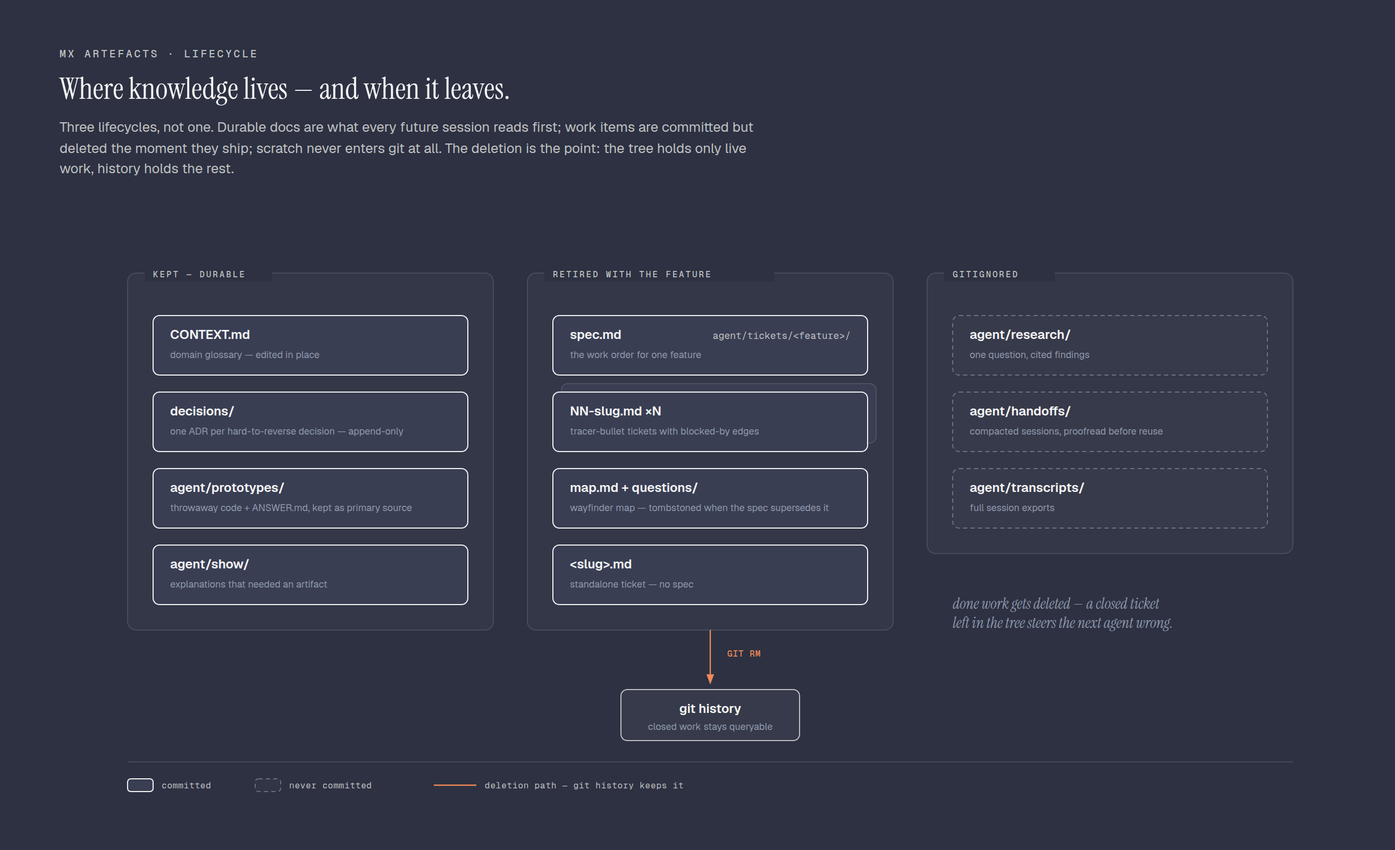
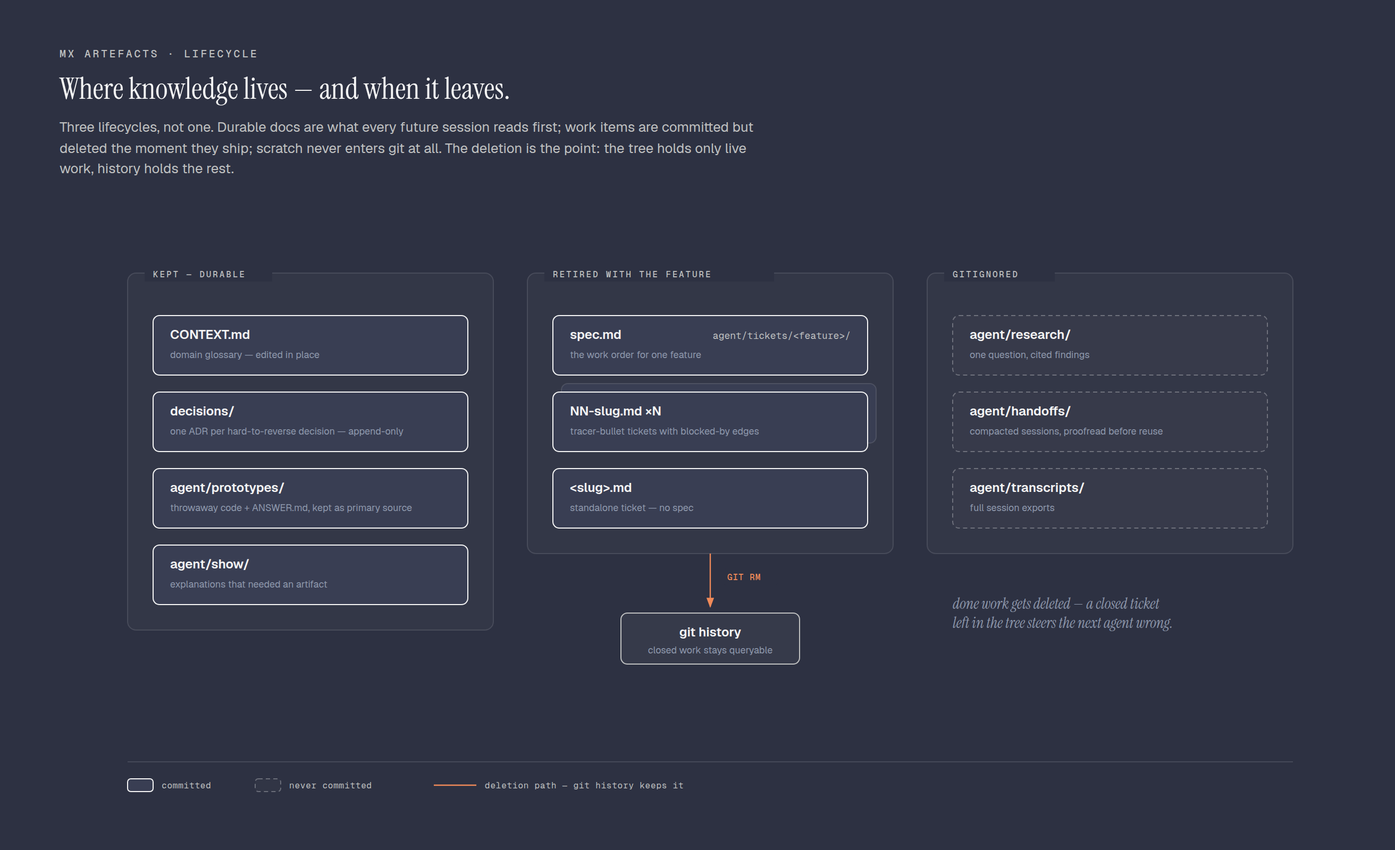
orient, README: one main flow with the session boundary inside it
The Map row leaves both artefact tables; the main flow's step 1 says
planning that outgrows the session continues through decision tickets
instead of forking to a second skill; context hygiene points at
grilling's Across sessions as the way to end a planning session early.

The wayfinder-loop figure is replaced by session-boundary: the same hub
and stations shape, with the spec draft as the hub and the session
boundary as one labelled edge of the loop. full-cycle's grilling card
and the artefacts figure's retired zone drop the map.

Workflow-stage: implement

Claude-Session: https://claude.ai/code/session_01Hc2P6VR8ERZpU6oiHPTKQz

Changed region(s): [[0.4062, 0.6562, 0.5625, 0.875], [0.4062, 0.5625, 0.5938, 0.625]]

diff --git a/agent/show/mx-readme-figures/session-boundary.html b/agent/show/mx-readme-figures/session-boundary.html
@@ -2,7 +2,7 @@
 <html lang="en">
 <head>
 <meta charset="utf-8">
-<title>mx: the wayfinder loop</title>
+<title>mx: grilling across sessions</title>
 <link href="https://fonts.googleapis.com/css2?family=Geist:wght@400;500;600&family=Geist+Mono:wght@400;500;600&display=swap" rel="stylesheet">
 <style>
 :root{
@@ -30,6 +30,7 @@ text{fill:var(--ink);}
 .note{font:400 9px 'Geist',sans-serif; fill:var(--soft);}
 .hubrow{font:500 8px 'Geist Mono',monospace; letter-spacing:.08em; fill:var(--muted);}
 .al{font:400 8px 'Geist Mono',monospace; letter-spacing:.06em; fill:var(--muted);}
+.al-accent{font:500 8px 'Geist Mono',monospace; letter-spacing:.06em; fill:var(--accent);}
 .aside{font:400 11px 'Geist',sans-serif; fill:var(--soft);}
 .rule{stroke:var(--rule); stroke-width:1;}
 .legend-text{font:400 8px 'Geist Mono',monospace; letter-spacing:.05em; fill:var(--muted);}
@@ -40,14 +41,14 @@ text{fill:var(--ink);}
 </head>
 <body>
 <header class="topbar">
-  <p class="eyebrow">mx workflow &middot; wayfinder</p>
+  <p class="eyebrow">mx workflow &middot; grilling across sessions</p>
   <button class="scheme"></button>
 </header>
-<h1>Planning too big for one session: a shared map of decision tickets.</h1>
-<p class="dek">Chart the map once, then loop: each lap is a fresh session that claims one open question, resolves
-it, and records the decision on the map and in the spec draft. Sessions come and go; the map and the draft
-accumulate. When no tickets remain and no fog is specifiable, the way is clear: the last session confirms the
-spec, and only then does building start. A repo can run several maps at once.</p>
+<h1>Planning that spans sessions: the spec carries the design, decision tickets carry the open questions.</h1>
+<p class="dek">Every grilling writes the spec round by round, so a session boundary is not a fork in the flow. A session
+that ends with questions open files them as decision tickets; the next session claims one, grills it, and rewrites
+the spec sections it names. Whether the frontier drains in one session or twelve is discovered, not declared; when
+it is empty, the gate confirms the spec and building starts.</p>
 
 <svg viewBox="0 0 1200 740" xmlns="http://www.w3.org/2000/svg">
   <defs>
@@ -58,91 +59,89 @@ spec, and only then does building start. A repo can run several maps at once.</p
 
   <!-- connectors: the loop -->
   <path class="flow" d="M 736,216 H 948 Q 956,216 956,224 V 324" marker-end="url(#arrow)"/>
-  <path class="flow" d="M 956,424 V 592 Q 956,600 948,600 H 732" marker-end="url(#arrow)"/>
-  <path class="flow" d="M 552,600 H 356 Q 348,600 348,592 V 428" marker-end="url(#arrow)"/>
-  <path class="flow" d="M 348,328 V 224 Q 348,216 356,216 H 540" marker-end="url(#arrow)"/>
+  <path class="flow" d="M 956,424 V 592 Q 956,600 948,600 H 748" marker-end="url(#arrow)"/>
+  <path class="flow" d="M 536,600 H 356 Q 348,600 348,592 V 224 Q 348,216 356,216 H 540" marker-end="url(#arrow)"/>
   <!-- entry and exit -->
   <path class="flow" d="M 264,144 H 588 Q 596,144 596,152 V 172" marker-end="url(#arrow)"/>
   <path class="flow" d="M 660,176 V 152 Q 660,144 668,144 H 932" marker-end="url(#arrow)"/>
-  <!-- spokes: shared-state reads and writes -->
-  <path class="spoke" d="M 640,304 V 260" marker-end="url(#arrow)"/>
-  <path class="spoke" d="M 640,552 V 476" marker-end="url(#arrow)"/>
-  <path class="spoke" d="M 448,376 H 524" marker-end="url(#arrow)"/>
+  <!-- spokes: spec reads and writes -->
+  <path class="spoke" d="M 640,256 V 300" marker-end="url(#arrow)"/>
+  <path class="spoke" d="M 640,552 V 492" marker-end="url(#arrow)"/>
 
   <!-- nodes -->
   <rect class="card" x="64" y="96" width="200" height="96" rx="6"/>
   <rect class="card" x="936" y="96" width="208" height="96" rx="6"/>
   <rect class="card" x="544" y="176" width="192" height="80" rx="6"/>
   <rect class="card" x="848" y="328" width="240" height="96" rx="6"/>
-  <rect class="card" x="552" y="552" width="176" height="96" rx="6"/>
-  <rect class="card" x="248" y="328" width="200" height="96" rx="6"/>
-  <rect class="hub" x="528" y="304" width="224" height="168" rx="8"/>
+  <rect class="card" x="536" y="552" width="208" height="96" rx="6"/>
+  <rect class="hub" x="528" y="304" width="224" height="184" rx="8"/>
   <line class="hub-rule" x1="544" y1="420" x2="736" y2="420"/>
 
   <!-- labels -->
-  <!-- chart -->
-  <text class="name" x="80" y="120">Chart the map</text>
-  <text class="cmd" x="80" y="136">/mx:wayfinder</text>
-  <text class="note" x="80" y="154">name the destination, sketch the fog,</text>
-  <text class="note" x="80" y="168">cut the first decision tickets,</text>
-  <text class="note" x="80" y="182">open the spec draft beside the map</text>
-  <!-- confirm -->
+  <!-- idea -->
+  <text class="name" x="80" y="120">Idea</text>
+  <text class="cmd" x="80" y="136">/mx:grilling, at any size</text>
+  <text class="note" x="80" y="154">a big one fans out breadth-first:</text>
+  <text class="note" x="80" y="168">the frontier and the fog visible</text>
+  <text class="note" x="80" y="182">from round one</text>
+  <!-- gate -->
   <text class="name" x="952" y="120">Confirm the spec</text>
   <text class="cmd" x="952" y="136">the gate, then /mx:to-tickets</text>
-  <text class="note" x="952" y="154">the draft grew lap by lap: read it</text>
-  <text class="note" x="952" y="168">whole once, then walk the gate;</text>
-  <text class="note" x="952" y="182">the confirmed spec supersedes the map</text>
-  <!-- claim -->
-  <text class="name" x="560" y="200">Pick &amp; claim</text>
-  <text class="note" x="560" y="218">first open, unblocked, unclaimed ticket:</text>
-  <text class="note" x="560" y="232">the frontier, the edge of the known</text>
-  <!-- resolve -->
-  <text class="name" x="864" y="352">Resolve the question</text>
+  <text class="note" x="952" y="154">unconfirmed calls walked, markers</text>
+  <text class="note" x="952" y="168">stripped, status: confirmed;</text>
+  <text class="note" x="952" y="182">build from it, or cut the tickets</text>
+  <!-- round -->
+  <text class="name" x="560" y="200">Grilling round</text>
+  <text class="note" x="560" y="218">the design whole + the frontier's</text>
+  <text class="note" x="560" y="232">questions; you answer by number</text>
+  <!-- tickets -->
+  <text class="name" x="864" y="352">Decision tickets</text>
   <text class="cmd" x="864" y="368">grill &middot; prototype &middot; research &middot; legwork</text>
-  <text class="note" x="864" y="386">HITL or AFK: research runs in background</text>
-  <text class="note" x="864" y="400">surfaces prototype-first; blank? render it</text>
-  <text class="note" x="864" y="414">AFK findings reach the draft in a round</text>
-  <!-- record -->
-  <text class="name" x="568" y="576">Record the decision</text>
-  <text class="note" x="568" y="594">answer on the ticket, close it,</text>
-  <text class="note" x="568" y="608">gist + link in Decisions so far,</text>
-  <text class="note" x="568" y="622">spec sections it touches rewritten;</text>
-  <text class="note" x="568" y="636">unratified = marked unconfirmed</text>
-  <!-- graduate -->
-  <text class="name" x="264" y="352">Graduate the fog</text>
-  <text class="note" x="264" y="370">newly sharp questions become tickets;</text>
-  <text class="note" x="264" y="384">past-the-destination goes out of scope</text>
+  <text class="note" x="864" y="386">one per open question, filed on the</text>
+  <text class="note" x="864" y="400">tracker, each naming the spec</text>
+  <text class="note" x="864" y="414">sections its answer may rewrite</text>
+  <!-- fresh session -->
+  <text class="name" x="552" y="576">Fresh session</text>
+  <text class="note" x="552" y="594">reads the spec top-down + the open</text>
+  <text class="note" x="552" y="608">tickets; claims one, grills it as a</text>
+  <text class="note" x="552" y="622">round; the answer rewrites the</text>
+  <text class="note" x="552" y="636">sections the ticket names</text>
   <!-- hub -->
-  <text class="name" x="548" y="328">The map</text>
-  <text class="hubrow" x="548" y="350">DESTINATION</text>
-  <text class="hubrow" x="548" y="368">DECISIONS SO FAR: THE INDEX</text>
-  <text class="hubrow" x="548" y="386">NOT YET SPECIFIED: THE FOG</text>
-  <text class="hubrow" x="548" y="404">OUT OF SCOPE</text>
-  <text class="name" x="548" y="442">The spec draft</text>
-  <text class="hubrow" x="548" y="460">GROWS AS DECISIONS LAND</text>
+  <text class="name" x="548" y="328">The spec draft</text>
+  <text class="hubrow" x="548" y="350">PROBLEM &middot; SOLUTION</text>
+  <text class="hubrow" x="548" y="368">DECISIONS &middot; WHO SETTLED EACH</text>
+  <text class="hubrow" x="548" y="386">FOG &middot; NOT YET STATABLE</text>
+  <text class="hubrow" x="548" y="404">OUT OF SCOPE &middot; WITH REASONS</text>
+  <text class="name" x="548" y="442">Outlives every session</text>
+  <text class="hubrow" x="548" y="460">REWRITTEN PER ROUND</text>
+  <text class="hubrow" x="548" y="478">READ TOP-DOWN BY THE NEXT</text>
 
   <!-- arrow labels -->
   <rect class="mask" x="748" y="120" width="96" height="18" rx="4"/>
   <text class="al" x="796" y="132" text-anchor="middle">FRONTIER EMPTY</text>
-  <rect class="mask" x="652" y="502" width="64" height="16" rx="4"/>
-  <text class="al" x="656" y="513">DECISION</text>
-  <rect class="mask" x="452" y="354" width="68" height="14" rx="4"/>
-  <text class="al" x="486" y="364" text-anchor="middle">NEW TICKETS</text>
-  <text class="al" x="336" y="268" text-anchor="end">ONE LAP =</text>
-  <text class="al" x="336" y="280" text-anchor="end">ONE SESSION</text>
+  <rect class="mask" x="752" y="190" width="176" height="18" rx="4"/>
+  <text class="al-accent" x="840" y="202" text-anchor="middle">SESSION ENDS &middot; FRONTIER OPEN</text>
+  <rect class="mask" x="964" y="500" width="64" height="16" rx="4"/>
+  <text class="al" x="968" y="511">CLAIM ONE</text>
+  <rect class="mask" x="652" y="270" width="72" height="16" rx="4"/>
+  <text class="al" x="656" y="281">EACH ROUND</text>
+  <rect class="mask" x="652" y="514" width="100" height="16" rx="4"/>
+  <text class="al" x="656" y="525">NAMED SECTIONS</text>
+  <text class="al" x="336" y="400" text-anchor="end">A ROUND LIKE</text>
+  <text class="al" x="336" y="412" text-anchor="end">ANY OTHER</text>
 
   <!-- aside -->
   <text class="aside" x="80" y="600">sessions come and go;</text>
-  <text class="aside" x="80" y="616">the map keeps every decision.</text>
+  <text class="aside" x="80" y="616">the spec keeps every decision.</text>
 
   <!-- legend -->
   <line class="rule" x1="64" y1="688" x2="1136" y2="688"/>
   <line class="flow" x1="64" y1="712" x2="104" y2="712" marker-end="url(#arrow)"/>
-  <text class="legend-text" x="112" y="715">the loop: a fresh session per lap</text>
+  <text class="legend-text" x="112" y="715">the loop: one session or many</text>
   <line class="spoke" x1="336" y1="712" x2="376" y2="712"/>
-  <text class="legend-text" x="384" y="715">map + draft reads &amp; writes</text>
+  <text class="legend-text" x="384" y="715">spec reads &amp; writes</text>
   <rect class="hub" x="568" y="706" width="24" height="12" rx="3"/>
-  <text class="legend-text" x="600" y="715">shared state: outlives every session</text>
+  <text class="legend-text" x="600" y="715">the one planning artefact</text>
   <text class="legend-text" x="832" y="715">legwork = manual work that unblocks a decision</text>
 </svg>
 <script>

diff --git a/agent/show/mx-readme-figures/artefacts.html b/agent/show/mx-readme-figures/artefacts.html
@@ -62,11 +62,11 @@ the tree holds only live work, history holds the rest.</p>
 
   <!-- zones -->
   <rect class="zone" x="64" y="64" width="344" height="336" rx="8"/>
-  <rect class="zone" x="440" y="64" width="344" height="336" rx="8"/>
+  <rect class="zone" x="440" y="64" width="344" height="264" rx="8"/>
   <rect class="zone" x="816" y="64" width="344" height="264" rx="8"/>
 
   <!-- connectors -->
-  <path class="flow-accent" d="M 612,400 V 450" marker-end="url(#arrow-accent)"/>
+  <path class="flow-accent" d="M 612,328 V 378" marker-end="url(#arrow-accent)"/>
 
   <!-- nodes: kept -->
   <rect class="node" x="88" y="104" width="296" height="56" rx="6"/>
@@ -79,7 +79,6 @@ the tree holds only live work, history holds the rest.</p>
   <rect class="node-ghost" x="472" y="168" width="296" height="56" rx="6"/>
   <rect class="node" x="464" y="176" width="296" height="56" rx="6"/>
   <rect class="node" x="464" y="248" width="296" height="56" rx="6"/>
-  <rect class="node" x="464" y="320" width="296" height="56" rx="6"/>
 
   <!-- nodes: ephemeral -->
   <rect class="node-dashed" x="840" y="104" width="296" height="56" rx="6"/>
@@ -87,7 +86,7 @@ the tree holds only live work, history holds the rest.</p>
   <rect class="node-dashed" x="840" y="248" width="296" height="56" rx="6"/>
 
   <!-- store -->
-  <rect class="store" x="528" y="456" width="168" height="48" rx="6"/>
+  <rect class="store" x="528" y="384" width="168" height="48" rx="6"/>
 
   <!-- zone labels (masked, on top edge) -->
   <rect class="mask" x="80" y="56" width="120" height="16"/>
@@ -114,10 +113,8 @@ the tree holds only live work, history holds the rest.</p>
   <text class="path" x="744" y="126" text-anchor="end">agent/tickets/&lt;feature&gt;/</text>
   <text class="name" x="480" y="198">NN-slug.md ×N</text>
   <text class="note" x="480" y="216">tracer-bullet tickets with blocked-by edges</text>
-  <text class="name" x="480" y="270">map.md + questions/</text>
-  <text class="note" x="480" y="288">wayfinder map — tombstoned when the spec supersedes it</text>
-  <text class="name" x="480" y="342">&lt;slug&gt;.md</text>
-  <text class="note" x="480" y="360">standalone ticket — no spec</text>
+  <text class="name" x="480" y="270">&lt;slug&gt;.md</text>
+  <text class="note" x="480" y="288">standalone ticket — no spec</text>
 
   <!-- ephemeral labels -->
   <text class="name" x="856" y="126">agent/research/</text>
@@ -128,10 +125,10 @@ the tree holds only live work, history holds the rest.</p>
   <text class="note" x="856" y="288">full session exports</text>
 
   <!-- store + arrow labels -->
-  <rect class="mask" x="624" y="414" width="52" height="16" rx="4"/>
-  <text class="al" x="628" y="425">GIT RM</text>
-  <text class="name" x="612" y="478" text-anchor="middle">git history</text>
-  <text class="note" x="612" y="494" text-anchor="middle">closed work stays queryable</text>
+  <rect class="mask" x="624" y="342" width="52" height="16" rx="4"/>
+  <text class="al" x="628" y="353">GIT RM</text>
+  <text class="name" x="612" y="406" text-anchor="middle">git history</text>
+  <text class="note" x="612" y="422" text-anchor="middle">closed work stays queryable</text>
 
   <!-- aside -->
   <text class="aside" x="840" y="380">done work gets deleted — a closed ticket</text>

diff --git a/agent/show/mx-readme-figures/full-cycle.html b/agent/show/mx-readme-figures/full-cycle.html
@@ -94,7 +94,7 @@ text{fill:var(--ink);}
   <text class="cmd" x="76" y="160">/mx:grill-with-docs</text>
   <text class="note" x="76" y="178">each round: the design whole</text>
   <text class="note" x="76" y="192">terms + decisions written down</text>
-  <text class="note" x="76" y="206">big + foggy? /mx:wayfinder</text>
+  <text class="note" x="76" y="206">outgrows the session? tickets carry it</text>
 
   <text class="name" x="316" y="144">Spec</text>
   <text class="cmd" x="316" y="160">(written while grilling)</text>

diff --git a/mx/skills/orient/SKILL.md b/mx/skills/orient/SKILL.md
@@ -16,7 +16,6 @@ A **flow** is a path through the skills. Most work travels one **main flow**, wi
 | Spec              | `agent/tickets/<feature>/spec.md`    | draft while grilling, confirmed at the gate; `git rm -r` when shipped | the design: the work order for one feature, single- or multi-session                                                                                                                           |
 | Ticket            | `agent/tickets/<feature>/NN-slug.md` | retired with its feature                                              | one vertical slice (what to build, blocked-by, acceptance criteria), or, with `type: research | prototype | grilling | legwork`, a decision ticket: a decision to make, answered on resolution |
 | Standalone ticket | `agent/tickets/<slug>.md`            | deleted when done                                                     | a ticket with no spec: work needing no design round, or a decision ticket filed for later                                                                                                      |
-| Map               | `agent/tickets/<feature>/map.md`     | retired with its feature                                              | a feature charted by wayfinder: destination, decisions-so-far index, fog; its decision tickets sit beside it as ordinary tickets                                                               |
 | Research          | `agent/research/NN-slug.md`          | gitignored, ephemeral                                                 | one question, cited findings                                                                                                                                                                   |
 | Prototype         | `agent/prototypes/<slug>/`           | committed, kept                                                       | throwaway code that answered a design question + `ANSWER.md` (question, verdicts), kept as primary source                                                                                      |
 | Show              | `agent/show/<slug>/`                 | committed once approved or acted on                                   | an explanation carried by an artefact: diagram, comparison, demo, explainer page                                                                                                               |
@@ -25,7 +24,7 @@ Layout, state, and claiming: `/mx:tracker`. A fact that fits none of these (a go
 
 ## The main flow: idea → ship
 
-1. **`/mx:grill-with-docs`**: sharpen the idea by interview. Stateful: the design lands in the spec as it settles (a draft each round, confirmed at the gate), terms in `CONTEXT.md`, hard-to-reverse decisions in `decisions/` (both via `/mx:domain-modelling`). Not working in a repo? Plain `/mx:grilling`. External inputs (a meeting transcript, a client brief, a bug report) feed in here too: grill through their unstated assumptions. Too big and foggy for one session? **`/mx:wayfinder`** instead: chart the feature as a shared map of decision tickets on the tracker and resolve them across sessions (threads you can't pull now become tickets, never lost context), the spec draft growing beside the map until the last session confirms it.
+1. **`/mx:grill-with-docs`**: sharpen the idea by interview. Stateful: the design lands in the spec as it settles (a draft each round, confirmed at the gate), terms in `CONTEXT.md`, hard-to-reverse decisions in `decisions/` (both via `/mx:domain-modelling`). Not working in a repo? Plain `/mx:grilling`. External inputs (a meeting transcript, a client brief, a bug report) feed in here too: grill through their unstated assumptions. Planning that outgrows the session keeps going: the open questions leave as decision tickets on the tracker, the next session claims one, grills it, and rewrites the spec sections it names; how many sessions the frontier takes is discovered, not declared.
 2. **Branch: does a question need a runnable answer?** (state, business logic, a UI you have to see) Detour, bridged by `/mx:handoff` in both directions: handoff out, fresh session, `/mx:prototype` to answer with throwaway code, handoff back; the prototype's `ANSWER.md` carries the verdicts. User-visible surfaces default here: surface judgment is **render-triggered**, so a human who is blank on "how should it look" in the abstract will produce sharp criticism in front of a render, and a blank answer means prototype, not more grilling.
 3. **Branch: is this a multi-session build?**
    - **Yes** → `/mx:to-tickets` (spec → tracer-bullet tickets with blocking edges). Then `/mx:implement` per ticket, working the frontier, **clearing context between tickets**; each ticket is self-contained, so the last one's context is disposable. Independent frontier tickets can run in parallel; `/mx:dispatch` orchestrates the waves (one orchestrator, N implements).
@@ -35,11 +34,11 @@ Layout, state, and claiming: `/mx:tracker`. A fact that fits none of these (a go
 
 4. **QA: the human, per landed slice.** Every ticket is a tracer bullet, demoable the moment it lands: the agent announces what now works and how to exercise it (straight from the ticket's What-to-build and acceptance criteria), and the human drives it while the remaining frontier keeps running. Taste lands here; that's why there is no skill for it. Findings become new tickets with blocking edges; the frontier absorbs them. Human QA is gated on **demo cost**: before a drivable surface exists, the agent's closing evidence (screenshots, driven transcripts, the ticket's annotated review page) substitutes, and taste debt accumulates knowingly until the surface arrives, which is why greenfield builds keep the first milestone small and end-to-end.
 
-5. **The review session: where iteration re-enters.** Scheduled at *first drivable*, not when the backlog empties. The human dogfoods the landed surface and dumps raw findings; the agent rebuilds the holistic picture (drives the app itself, reads the landed tickets' comments and assumptions, fires a background architecture review when structure smells); then grilling rounds. The outputs sort themselves: defects the agent just fixes, verdicts land on tickets and ADRs, threads too big for the session become new decision tickets or a handed-off grilling session, structural friction routes to `/mx:improve-codebase-architecture`. Iteration is not a new ceremony: the board absorbs new tickets, a reopened decision gets grilled and superseded, and wayfinding resumes only when the next chunk is again too big and foggy for one session.
+5. **The review session: where iteration re-enters.** Scheduled at *first drivable*, not when the backlog empties. The human dogfoods the landed surface and dumps raw findings; the agent rebuilds the holistic picture (drives the app itself, reads the landed tickets' comments and assumptions, fires a background architecture review when structure smells); then grilling rounds. The outputs sort themselves: defects the agent just fixes, verdicts land on tickets and ADRs, threads too big for the session become new decision tickets or a handed-off grilling session, structural friction routes to `/mx:improve-codebase-architecture`. Iteration is not a new ceremony: the board absorbs new tickets, and a reopened decision gets grilled and superseded.
 
 ### Context hygiene
 
-Keep steps 1–3 in **one unbroken context window** (no handoff until after `/mx:to-tickets`) so the grilling, spec, and tickets all build on the same thinking. Each `/mx:implement` then starts fresh, working from ticket + spec. The limit is the **smart zone**: the stretch within which reasoning stays sharp; degradation becomes noticeable from roughly 30% of the window used, long before the advertised size fills. If a session nears it before to-tickets, don't push on degraded: `/mx:handoff` and continue in a fresh thread. And when the planning itself can't fit one window, that's `/mx:wayfinder`'s job: the map, not the conversation, carries the thinking across resets.
+Keep steps 1–3 in **one unbroken context window** (no handoff until after `/mx:to-tickets`) so the grilling, spec, and tickets all build on the same thinking. Each `/mx:implement` then starts fresh, working from ticket + spec. The limit is the **smart zone**: the stretch within which reasoning stays sharp; degradation becomes noticeable from roughly 30% of the window used, long before the advertised size fills. If a session nears it before to-tickets, don't push on degraded: end with the frontier open (`/mx:grilling`, Across sessions: the sharp questions become decision tickets, the spec carries the rest) or `/mx:handoff` mid-round, and continue in a fresh thread. The spec and the tickets, not the conversation, carry the thinking across the boundary.
 
 ## On-ramp
 
@@ -72,7 +71,7 @@ No `/compact` on the ladder: a deterministic reset from a file you can proofread
 
 ## Standalone
 
-- **`/mx:grilling`**: the interview primitive itself (rounds that deliver the design whole and write it to the spec, the frontier, facts are the agent's job and decisions are the user's). `/mx:grill-with-docs` wraps it with docs; `/mx:wayfinder` runs it inside tickets. Reach for it bare when the discussion has no repo under it.
+- **`/mx:grilling`**: the interview primitive itself (rounds that deliver the design whole and write it to the spec, the frontier, facts are the agent's job and decisions are the user's). `/mx:grill-with-docs` wraps it with docs. Reach for it bare when the discussion has no repo under it.
 - **`/mx:research`**: investigate a question against **primary sources**; leaves a cited artefact in `agent/research/`. Research feeds the thinking, it doesn't replace it.
 - **`/mx:to-questionnaire`**: when what's blocking you isn't in your head or the codebase but in **someone else's**, write them a questionnaire to fill in. The inverse of grilling: it interviews you about the **send** (who it's going to, what you need back) and aims the questions at the gap. What comes back is material for `/mx:grill-with-docs`.
 - **`/mx:wizard`**: for the steps only a **human** can take: provisioning infrastructure, credentials and CI secrets, an unfamiliar third-party dashboard, a one-off migration. Generates an interactive bash script that opens each URL, captures each value, and writes it where it belongs. Model-invoked: the agent reaches for it when it hits a wall only you can pass; anything the agent can do itself, it should.

diff --git a/mx/README.md b/mx/README.md
@@ -16,7 +16,6 @@ File-based specs and tickets, domain glossary + ADRs, research artefacts, and se
 | Spec              | `agent/tickets/<feature>/spec.md`    | draft while grilling, confirmed at the gate; `git rm -r` when shipped | the design: the work order for one feature                                                                                                                          |
 | Ticket            | `agent/tickets/<feature>/NN-slug.md` | retired with its feature                                              | one vertical slice with blocked-by edges, or, with `type: research | prototype | grilling | legwork`, a decision ticket: a decision to make, answered on resolution |
 | Standalone ticket | `agent/tickets/<slug>.md`            | deleted when done                                                     | a ticket with no spec: no design round needed, or a decision ticket for later                                                                                       |
-| Map               | `agent/tickets/<feature>/map.md`     | retired with its feature                                              | a feature charted by wayfinder: destination, decisions-so-far, fog; its decision tickets sit beside it                                                              |
 | Research          | `agent/research/NN-slug.md`          | gitignored, ephemeral                                                 | one question, cited findings                                                                                                                                        |
 | Prototype         | `agent/prototypes/<slug>/`           | committed, kept                                                       | code that answered a design question + `ANSWER.md`                                                                                                                  |
 | Show              | `agent/show/<slug>/`                 | committed once approved                                               | an explanation carried by an artefact                                                                                                                               |
@@ -29,11 +28,11 @@ File-based specs and tickets, domain glossary + ADRs, research artefacts, and se
 
 **`/mx:orient` is the map**: the main flow, its on-ramps, and when to reach for what.
 
-When the planning itself is too big for one session, `/mx:wayfinder` charts it as a shared map of decision tickets, resolved one fresh session at a time:
+Planning that outgrows one session keeps its artefacts: the open questions leave as decision tickets, the next session claims one and grills it, and the spec grows until the gate confirms it:
 
 <picture>
-  <source media="(prefers-color-scheme: dark)" srcset="assets/wayfinder-loop.png">
-  <img alt="The wayfinder loop: chart the map, then per session pick and claim a decision ticket, resolve it, record it on the map and in the spec draft, graduate the fog, until the frontier is empty and the confirmed spec supersedes the map" src="assets/wayfinder-loop-light.png">
+  <source media="(prefers-color-scheme: dark)" srcset="assets/session-boundary.png">
+  <img alt="Grilling across sessions: rounds rewrite the spec draft; a session that ends with the frontier open files decision tickets; a fresh session reads the spec top-down, claims one, grills it as a round and rewrites the sections it names; the gate confirms the spec when the frontier is empty" src="assets/session-boundary-light.png">
 </picture>
 
 ## What's manual, what's AFK, and why
@@ -45,7 +44,7 @@ When the planning itself is too big for one session, `/mx:wayfinder` charts it a
 
 - **Grilling is where alignment happens**: human in the loop, non-negotiable. Everything downstream trades on the shared understanding built there. External inputs (a meeting transcript, a client brief, a bug report) enter the flow here: grill through their unstated assumptions.
 - **Plan in one window, respect the smart zone.** Grilling (which writes the spec) → tickets stays in one unbroken context window; but reasoning degrades noticeably from roughly 30% of the window used, regardless of advertised size. Approaching the limit mid-planning → handoff to a fresh thread, don't push on degraded.
-- **The spec is reviewed as it is written.** A wrong line of code is one wrong line; a wrong line in a spec becomes hundreds of them, so the spec is where a look pays most. Grilling writes it round by round and you review each round's delta as it lands (`/mx:grilling` has the mechanics); writing it down is itself a design step. A spec assembled across sessions (a feature charted by wayfinder) gets one whole-document read at the end, for drift between sessions.
+- **The spec is reviewed as it is written.** A wrong line of code is one wrong line; a wrong line in a spec becomes hundreds of them, so the spec is where a look pays most. Grilling writes it round by round and you review each round's delta as it lands (`/mx:grilling` has the mechanics); writing it down is itself a design step. A spec assembled across sessions gets one whole-document read at the gate, for drift between sessions.
 - **Do review the ticket breakdown** (to-tickets quizzes you). Cheap to check, and the failure mode is easy to spot: horizontal slices (all schema, then all API, then all UI) instead of vertical ones; no feedback until the layers meet.
 - **Implementation is the AFK part.** Day shift plans and queues the backlog; night shift works the frontier, fresh context per ticket.
 - **QA is where you impose taste, per landed slice.** Manual, deliberately: automate the idea, the planning, *and* the QA and you get slop. Every ticket is a tracer bullet, demoable the moment it lands; the agent announces what works and how to exercise it (the ticket's What-to-build + acceptance criteria), you drive it while the remaining frontier keeps running. Findings become new tickets with blocking edges; the board absorbs them.
